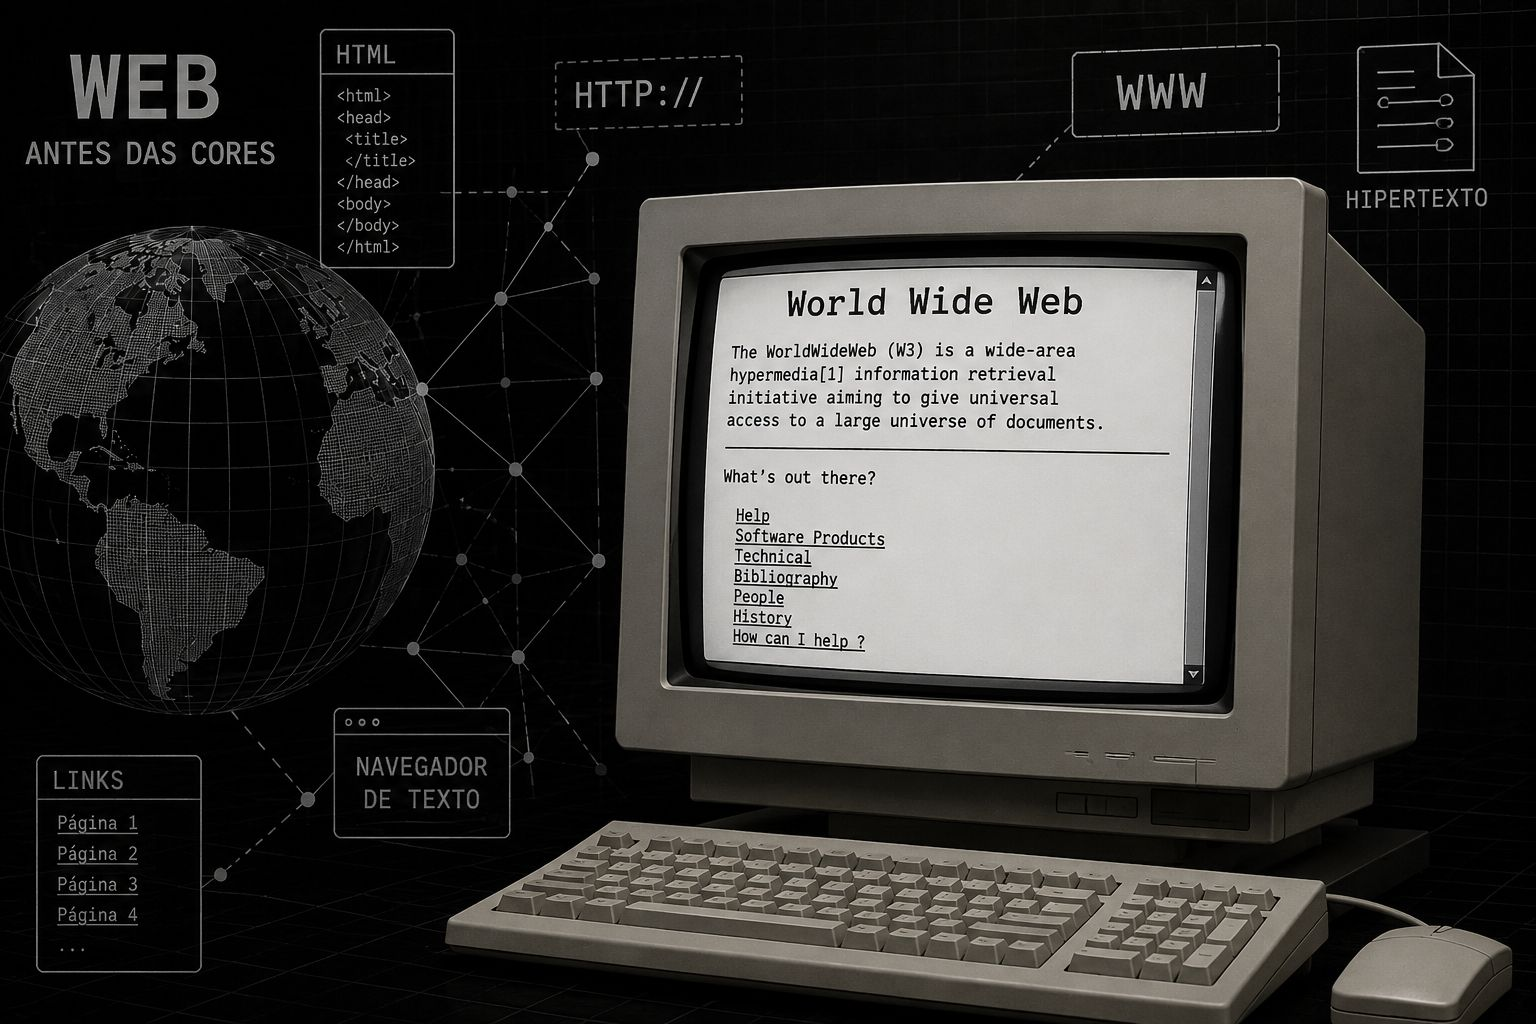
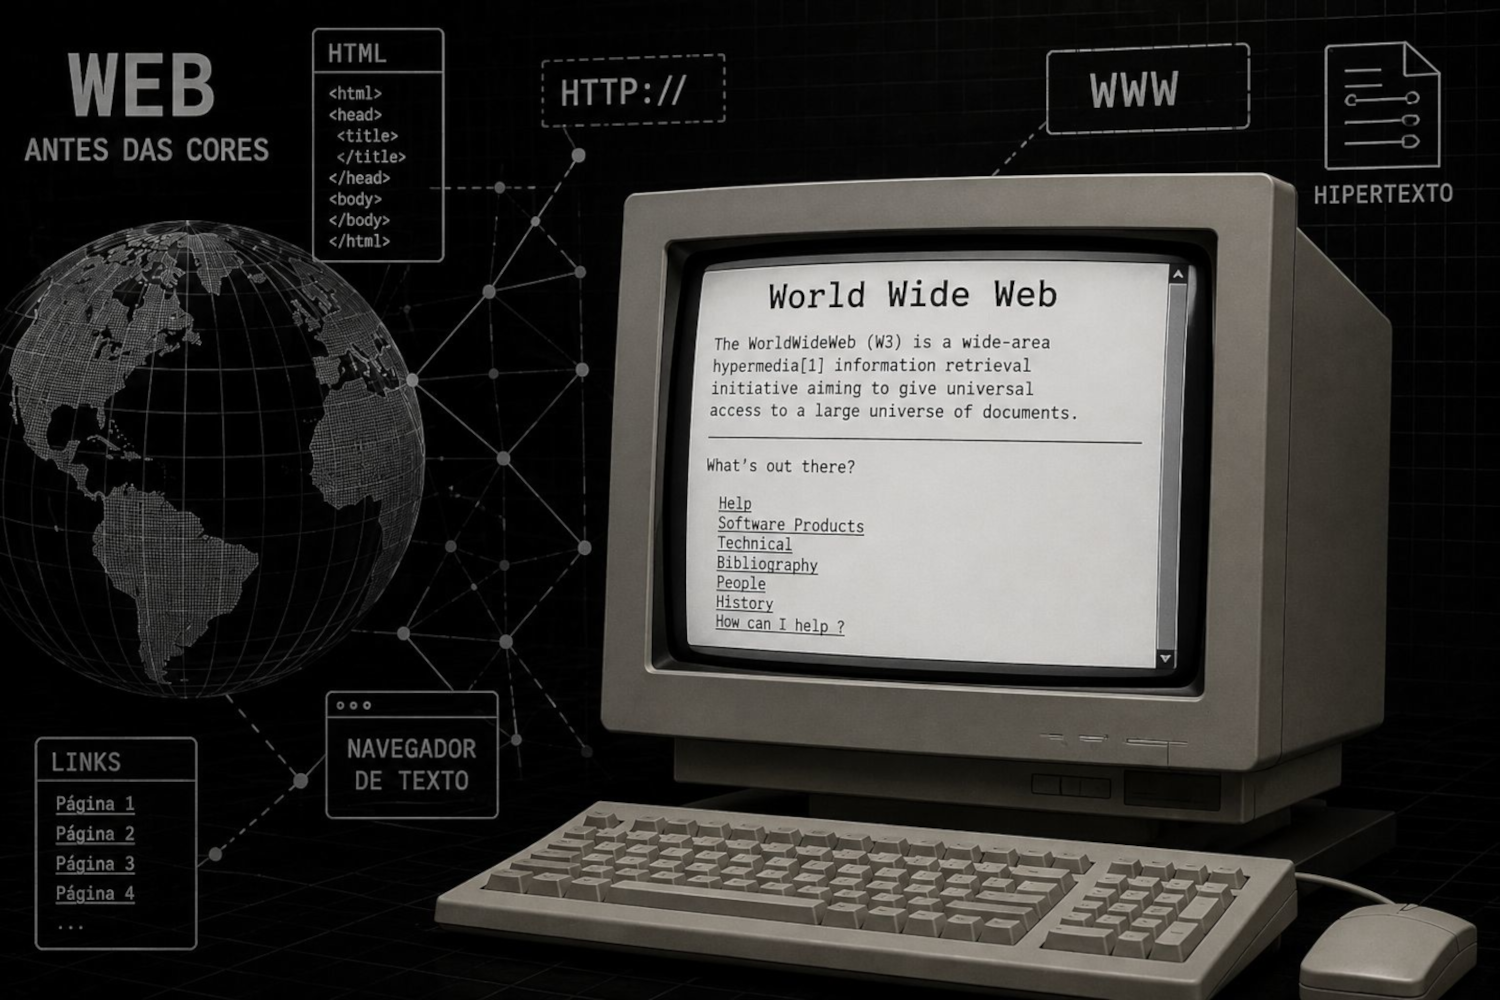
NOVO

diff --git a/exercicios/Ex021/fundo07.html b/exercicios/Ex021/fundo07.html
@@ -1,0 +1,49 @@
+<!DOCTYPE html>
+<html lang="Pt'br">
+<head>
+    <meta charset="UTF-8">
+    <meta name="viewport" content="width=device-width, initial-scale=1.0">
+    <title>Alinhamento Vertical</title>
+    <style>
+        #contanier {
+                background-image: url(Imagens/target001.png);
+                height: 95vh;
+                padding: 10px;
+                background-size: 100% 100%;
+                position: relative;
+                background-color:blueviolet;
+
+        }
+
+        #conteudo{
+                background-image: url(Imagens/target001.png);
+                background-size: 100% 100%;
+                position:absolute;
+                height: 200px;
+                width: 400px;
+                
+                background-color: aqua;
+                left:50%;
+                top:50%;
+
+                transform: translate(-50%, -50%);
+
+        }
+
+
+    </style>
+</head>
+<body>
+    <section id="contanier" >
+
+        <article id="conteudo">
+
+
+        </article>
+
+
+
+
+    </section>
+</body>
+</html>

diff --git a/Desafios/D011/estilo/style.css b/Desafios/D011/estilo/style.css
@@ -123,3 +123,23 @@ nav {
     color: var(--cor5);
     font-family:var(--fonte-destaque)
  }
+
+ main  img {
+    max-width: 100%;
+    display: block;
+    margin: 22px auto;
+    border-radius: 12px;
+    box-shadow: 0 16px 30px rgba(0, 0, 0, 0.18);
+    object-fit: cover;
+    max-height: 400px;
+ }
+main  img.web{
+  object-fit: cover;
+    width: 100%;
+    max-height: 500px;
+    height: auto;
+    display: block;
+    margin: 22px auto;
+    border-radius: 12px;
+    box-shadow: 0 16px 30px rgba(0, 0, 0, 0.18);
+}

diff --git a/exercicios/Ex021/fundo06.html b/exercicios/Ex021/fundo06.html
@@ -9,16 +9,14 @@
 <style>
     body{
         height: 98vh;
-        background-color: black;
-        background-image: url(Imagens/wallpaper002.jpg);
-        background-repeat: no-repeat;
-        background-position: center top;
-        background-size: cover;
+        margin: 0;
+        background: black url('Imagens/wallpaper002.jpg') center center / cover no-repeat fixed;
     }
 
     main{
         background-color: #fff;
-        width: 400px;
+        min-height: 300px;
+        max-width: 700px;
         padding: 10px;
         margin: auto;
         border: 1px solid rgb(204, 18, 96);
@@ -34,7 +32,7 @@
 <body>
    <main>
         <h1>Personalizações dos Fundos</h1>
-        <p>lorem ipsum dolor sit amet, consectetur adipiscing elit. Sed do eiusmod tempor incididunt ut labore et dolore magna aliqua. lorem ipsum dolor sit amet, consectetur adipiscing elit. Sed do eiusmod tempor incididunt ut labore et dolore magna aliqua. lorem ipsum dolor sit amet, consectetur adipiscing elit. Sed do eiusmod tempor incididunt ut labore et dolore magna aliqua. lorem ipsum dolor sit amet, consectetur adipiscing elit. Sed do eiusmod tempor incididunt ut labore et dolore magna aliqua.</p>
+        <p> lorem ipsum dolor sit amet, consectetur adipiscing elit. Sed do eiusmod tempor incididunt ut labore et dolore magna aliqua. lorem ipsum dolor sit amet, consectetur adipiscing elit. Sed do eiusmod tempor incididunt ut labore et dolore magna aliqua. lorem ipsum dolor sit amet, consectetur adipiscing elit. Sed do eiusmod tempor incididunt ut labore et dolore magna aliqua. lorem ipsum dolor sit amet, consectetur adipiscing elit. Sed do eiusmod tempor incididunt ut labore et dolore magna aliqua. Lorem ipsum dolor sit amet consectetur adipisicing elit. Facere quaerat quae numquam non dolorem inventore odit expedita iste sit repellendus repellat eos suscipit, impedit debitis, cupiditate ipsum, qui ipsa doloremque! Lorem ipsum dolor sit amet consectetur adipisicing elit. Culpa tempore inventore provident quam, ipsa dignissimos. Ut, officiis corrupti dolorum hic necessitatibus sed recusandae facilis. Eius error debitis corporis magnam totam. Lorem ipsum, dolor sit amet consectetur adipisicing elit. Hic delectus ullam placeat enim eveniet iste vero sed numquam minima qui beatae dolore totam, unde mollitia harum molestiae quasi exercitationem repellat!lorem ipsum dolor sit amet, consectetur adipiscing elit. Sed do eiusmod tempor incididunt ut labore et dolore magna aliqua. lorem ipsum dolor sit amet, consectetur adipiscing elit. Sed do eiusmod tempor incididunt ut labore et dolore magna aliqua. lorem ipsum dolor sit amet, consectetur adipiscing elit. Sed do eiusmod tempor incididunt ut labore et dolore magna aliqua. lorem ipsum dolor sit amet, consectetur adipiscing elit. Sed do eiusmod tempor incididunt ut labore et dolore magna aliqua. Lorem ipsum dolor sit amet consectetur adipisicing elit. Facere quaerat quae numquam non dolorem inventore odit expedita iste sit repellendus repellat eos suscipit, impedit debitis, cupiditate ipsum, qui ipsa doloremque! Lorem ipsum dolor sit amet consectetur adipisicing elit. Culpa tempore inventore provident quam, ipsa dignissimos. Ut, officiis corrupti dolorum hic necessitatibus sed recusandae facilis. Eius error debitis corporis magnam totam. Lorem ipsum, dolor sit amet consectetur adipisicing elit. Hic delectus ullam placeat enim eveniet iste vero sed numquam minima qui beatae dolore totam, unde mollitia harum molestiae quasi exercitationem repellat!lorem ipsum dolor sit amet, consectetur adipiscing elit. Sed do eiusmod tempor incididunt ut labore et dolore magna aliqua. lorem ipsum dolor sit amet, consectetur adipiscing elit. Sed do eiusmod tempor incididunt ut labore et dolore magna aliqua. lorem ipsum dolor sit amet, consectetur adipiscing elit. Sed do eiusmod tempor incididunt ut labore et dolore magna aliqua. lorem ipsum dolor sit amet, consectetur adipiscing elit. Sed do eiusmod tempor incididunt ut labore et dolore magna aliqua. Lorem ipsum dolor sit amet consectetur adipisicing elit. Facere quaerat quae numquam non dolorem inventore odit expedita iste sit repellendus repellat eos suscipit, impedit debitis, cupiditate ipsum, qui ipsa doloremque! Lorem ipsum dolor sit amet consectetur adipisicing elit. Culpa tempore inventore provident quam, ipsa dignissimos. Ut, officiis corrupti dolorum hic necessitatibus sed recusandae facilis. Eius error debitis corporis magnam totam. Lorem ipsum, dolor sit amet consectetur adipisicing elit. Hic delectus ullam placeat enim eveniet iste vero sed numquam minima qui beatae dolore totam, unde mollitia harum molestiae quasi exercitationem repellat!lorem ipsum dolor sit amet, consectetur adipiscing elit. Sed do eiusmod tempor incididunt ut labore et dolore magna aliqua. lorem ipsum dolor sit amet, consectetur adipiscing elit. Sed do eiusmod tempor incididunt ut labore et dolore magna aliqua. lorem ipsum dolor sit amet, consectetur adipiscing elit. Sed do eiusmod tempor incididunt ut labore et dolore magna aliqua. lorem ipsum dolor sit amet, consectetur adipiscing elit. Sed do eiusmod tempor incididunt ut labore et dolore magna aliqua. Lorem ipsum dolor sit amet consectetur adipisicing elit. Facere quaerat quae numquam non dolorem inventore odit expedita iste sit repellendus repellat eos suscipit, impedit debitis, cupiditate ipsum, qui ipsa doloremque! Lorem ipsum dolor sit amet consectetur adipisicing elit. Culpa tempore inventore provident quam, ipsa dignissimos. Ut, officiis corrupti dolorum hic necessitatibus sed recusandae facilis. Eius error debitis corporis magnam totam. Lorem ipsum, dolor sit amet consectetur adipisicing elit. Hic delectus ullam placeat enim eveniet iste vero sed numquam minima qui beatae dolore totam, unde mollitia harum molestiae quasi exercitationem repellat!lorem ipsum dolor sit amet, consectetur adipiscing elit. Sed do eiusmod tempor incididunt ut labore et dolore magna aliqua. lorem ipsum dolor sit amet, consectetur adipiscing elit. Sed do eiusmod tempor incididunt ut labore et dolore magna aliqua. lorem ipsum dolor sit amet, consectetur adipiscing elit. Sed do eiusmod tempor incididunt ut labore et dolore magna aliqua. lorem ipsum dolor sit amet, consectetur adipiscing elit. Sed do eiusmod tempor incididunt ut labore et dolore magna aliqua. Lorem ipsum dolor sit amet consectetur adipisicing elit. Facere quaerat quae numquam non dolorem inventore odit expedita iste sit repellendus repellat eos suscipit, impedit debitis, cupiditate ipsum, qui ipsa doloremque! Lorem ipsum dolor sit amet consectetur adipisicing elit. Culpa tempore inventore provident quam, ipsa dignissimos. Ut, officiis corrupti dolorum hic necessitatibus sed recusandae facilis. Eius error debitis corporis magnam totam. Lorem ipsum, dolor sit amet consectetur adipisicing elit. Hic delectus ullam placeat enim eveniet iste vero sed numquam minima qui beatae dolore totam, unde mollitia harum molestiae quasi exercitationem repellat!lorem ipsum dolor sit amet, consectetur adipiscing elit. Sed do eiusmod tempor incididunt ut labore et dolore magna aliqua. lorem ipsum dolor sit amet, consectetur adipiscing elit. Sed do eiusmod tempor incididunt ut labore et dolore magna aliqua. lorem ipsum dolor sit amet, consectetur adipiscing elit. Sed do eiusmod tempor incididunt ut labore et dolore magna aliqua. lorem ipsum dolor sit amet, consectetur adipiscing elit. Sed do eiusmod tempor incididunt ut labore et dolore magna aliqua. Lorem ipsum dolor sit amet consectetur adipisicing elit. Facere quaerat quae numquam non dolorem inventore odit expedita iste sit repellendus repellat eos suscipit, impedit debitis, cupiditate ipsum, qui ipsa doloremque! Lorem ipsum dolor sit amet consectetur adipisicing elit. Culpa tempore inventore provident quam, ipsa dignissimos. Ut, officiis corrupti dolorum hic necessitatibus sed recusandae facilis. Eius error debitis corporis magnam totam. Lorem ipsum, dolor sit amet consectetur adipisicing elit. Hic delectus ullam placeat enim eveniet iste vero sed numquam minima qui beatae dolore totam, unde mollitia harum molestiae quasi exercitationem repellat!lorem ipsum dolor sit amet, consectetur adipiscing elit. Sed do eiusmod tempor incididunt ut labore et dolore magna aliqua. lorem ipsum dolor sit amet, consectetur adipiscing elit. Sed do eiusmod tempor incididunt ut labore et dolore magna aliqua. lorem ipsum dolor sit amet, consectetur adipiscing elit. Sed do eiusmod tempor incididunt ut labore et dolore magna aliqua. lorem ipsum dolor sit amet, consectetur adipiscing elit. Sed do eiusmod tempor incididunt ut labore et dolore magna aliqua. Lorem ipsum dolor sit amet consectetur adipisicing elit. Facere quaerat quae numquam non dolorem inventore odit expedita iste sit repellendus repellat eos suscipit, impedit debitis, cupiditate ipsum, qui ipsa doloremque! Lorem ipsum dolor sit amet consectetur adipisicing elit. Culpa tempore inventore provident quam, ipsa dignissimos. Ut, officiis corrupti dolorum hic necessitatibus sed recusandae facilis. Eius error debitis corporis magnam totam. Lorem ipsum, dolor sit amet consectetur adipisicing elit. Hic delectus ullam placeat enim eveniet iste vero sed numquam minima qui beatae dolore totam, unde mollitia harum molestiae quasi exercitationem repellat!lorem ipsum dolor sit amet, consectetur adipiscing elit. Sed do eiusmod tempor incididunt ut labore et dolore magna aliqua. lorem ipsum dolor sit amet, consectetur adipiscing elit. Sed do eiusmod tempor incididunt ut labore et dolore magna aliqua. lorem ipsum dolor sit amet, consectetur adipiscing elit. Sed do eiusmod tempor incididunt ut labore et dolore magna aliqua. lorem ipsum dolor sit amet, consectetur adipiscing elit. Sed do eiusmod tempor incididunt ut labore et dolore magna aliqua. Lorem ipsum dolor sit amet consectetur adipisicing elit. Facere quaerat quae numquam non dolorem inventore odit expedita iste sit repellendus repellat eos suscipit, impedit debitis, cupiditate ipsum, qui ipsa doloremque! Lorem ipsum dolor sit amet consectetur adipisicing elit. Culpa tempore inventore provident quam, ipsa dignissimos. Ut, officiis corrupti dolorum hic necessitatibus sed recusandae facilis. Eius error debitis corporis magnam totam. Lorem ipsum, dolor sit amet consectetur adipisicing elit. Hic delectus ullam placeat enim eveniet iste vero sed numquam minima qui beatae dolore totam, unde mollitia harum molestiae quasi exercitationem repellat!lorem ipsum dolor sit amet, consectetur adipiscing elit. Sed do eiusmod tempor incididunt ut labore et dolore magna aliqua. lorem ipsum dolor sit amet, consectetur adipiscing elit. Sed do eiusmod tempor incididunt ut labore et dolore magna aliqua. lorem ipsum dolor sit amet, consectetur adipiscing elit. Sed do eiusmod tempor incididunt ut labore et dolore magna aliqua. lorem ipsum dolor sit amet, consectetur adipiscing elit. Sed do eiusmod tempor incididunt ut labore et dolore magna aliqua. Lorem ipsum dolor sit amet consectetur adipisicing elit. Facere quaerat quae numquam non dolorem inventore odit expedita iste sit repellendus repellat eos suscipit, impedit debitis, cupiditate ipsum, qui ipsa doloremque! Lorem ipsum dolor sit amet consectetur adipisicing elit. Culpa tempore inventore provident quam, ipsa dignissimos. Ut, officiis corrupti dolorum hic necessitatibus sed recusandae facilis. Eius error debitis corporis magnam totam. Lorem ipsum, dolor sit amet consectetur adipisicing elit. Hic delectus ullam placeat enim eveniet iste vero sed numquam minima qui beatae dolore totam, unde mollitia harum molestiae quasi exercitationem repellat!lorem ipsum dolor sit amet, consectetur adipiscing elit. Sed do eiusmod tempor incididunt ut labore et dolore magna aliqua. lorem ipsum dolor sit amet, consectetur adipiscing elit. Sed do eiusmod tempor incididunt ut labore et dolore magna aliqua. lorem ipsum dolor sit amet, consectetur adipiscing elit. Sed do eiusmod tempor incididunt ut labore et dolore magna aliqua. lorem ipsum dolor sit amet, consectetur adipiscing elit. Sed do eiusmod tempor incididunt ut labore et dolore magna aliqua. Lorem ipsum dolor sit amet consectetur adipisicing elit. Facere quaerat quae numquam non dolorem inventore odit expedita iste sit repellendus repellat eos suscipit, impedit debitis, cupiditate ipsum, qui ipsa doloremque! Lorem ipsum dolor sit amet consectetur adipisicing elit. Culpa tempore inventore provident quam, ipsa dignissimos. Ut, officiis corrupti dolorum hic necessitatibus sed recusandae facilis. Eius error debitis corporis magnam totam. Lorem ipsum, dolor sit amet consectetur adipisicing elit. Hic delectus ullam placeat enim eveniet iste vero sed numquam minima qui beatae dolore totam, unde mollitia harum molestiae quasi exercitationem repellat!</p>
 
    </main> 
 </body>

diff --git a/exercicios/ex018/js7.js b/exercicios/ex018/js7.js
@@ -1,0 +1,4 @@
+const verdadeiro = true;
+const falso = false;
+console.log( typeof verdadeiro);
+console.log( typeof falso);

diff --git a/Desafios/D011/home.html b/Desafios/D011/home.html
@@ -32,7 +32,7 @@
 
                  <p>A primeira tentativa de criar a web surgiu no início dos anos 90, mas não havia uma forma simples de mudar fontes ou colocar cores de fundo. Cada navegador exibia os sites do seu próprio jeito. Os desenvolvedores sofriam tentando criar layouts usando tabelas enormes e códigos confusos, o que tornava o carregamento das páginas muito lento.</p>
 
-                <img src="Imagens/imagem.p.png" alt="imagens.png">
+                <img src="Imagens/imagem.png" alt="" class="web">              
 
             
                 <p>Essa primeira fase da internet era funcional, mas visualmente bem sem graça.</p>